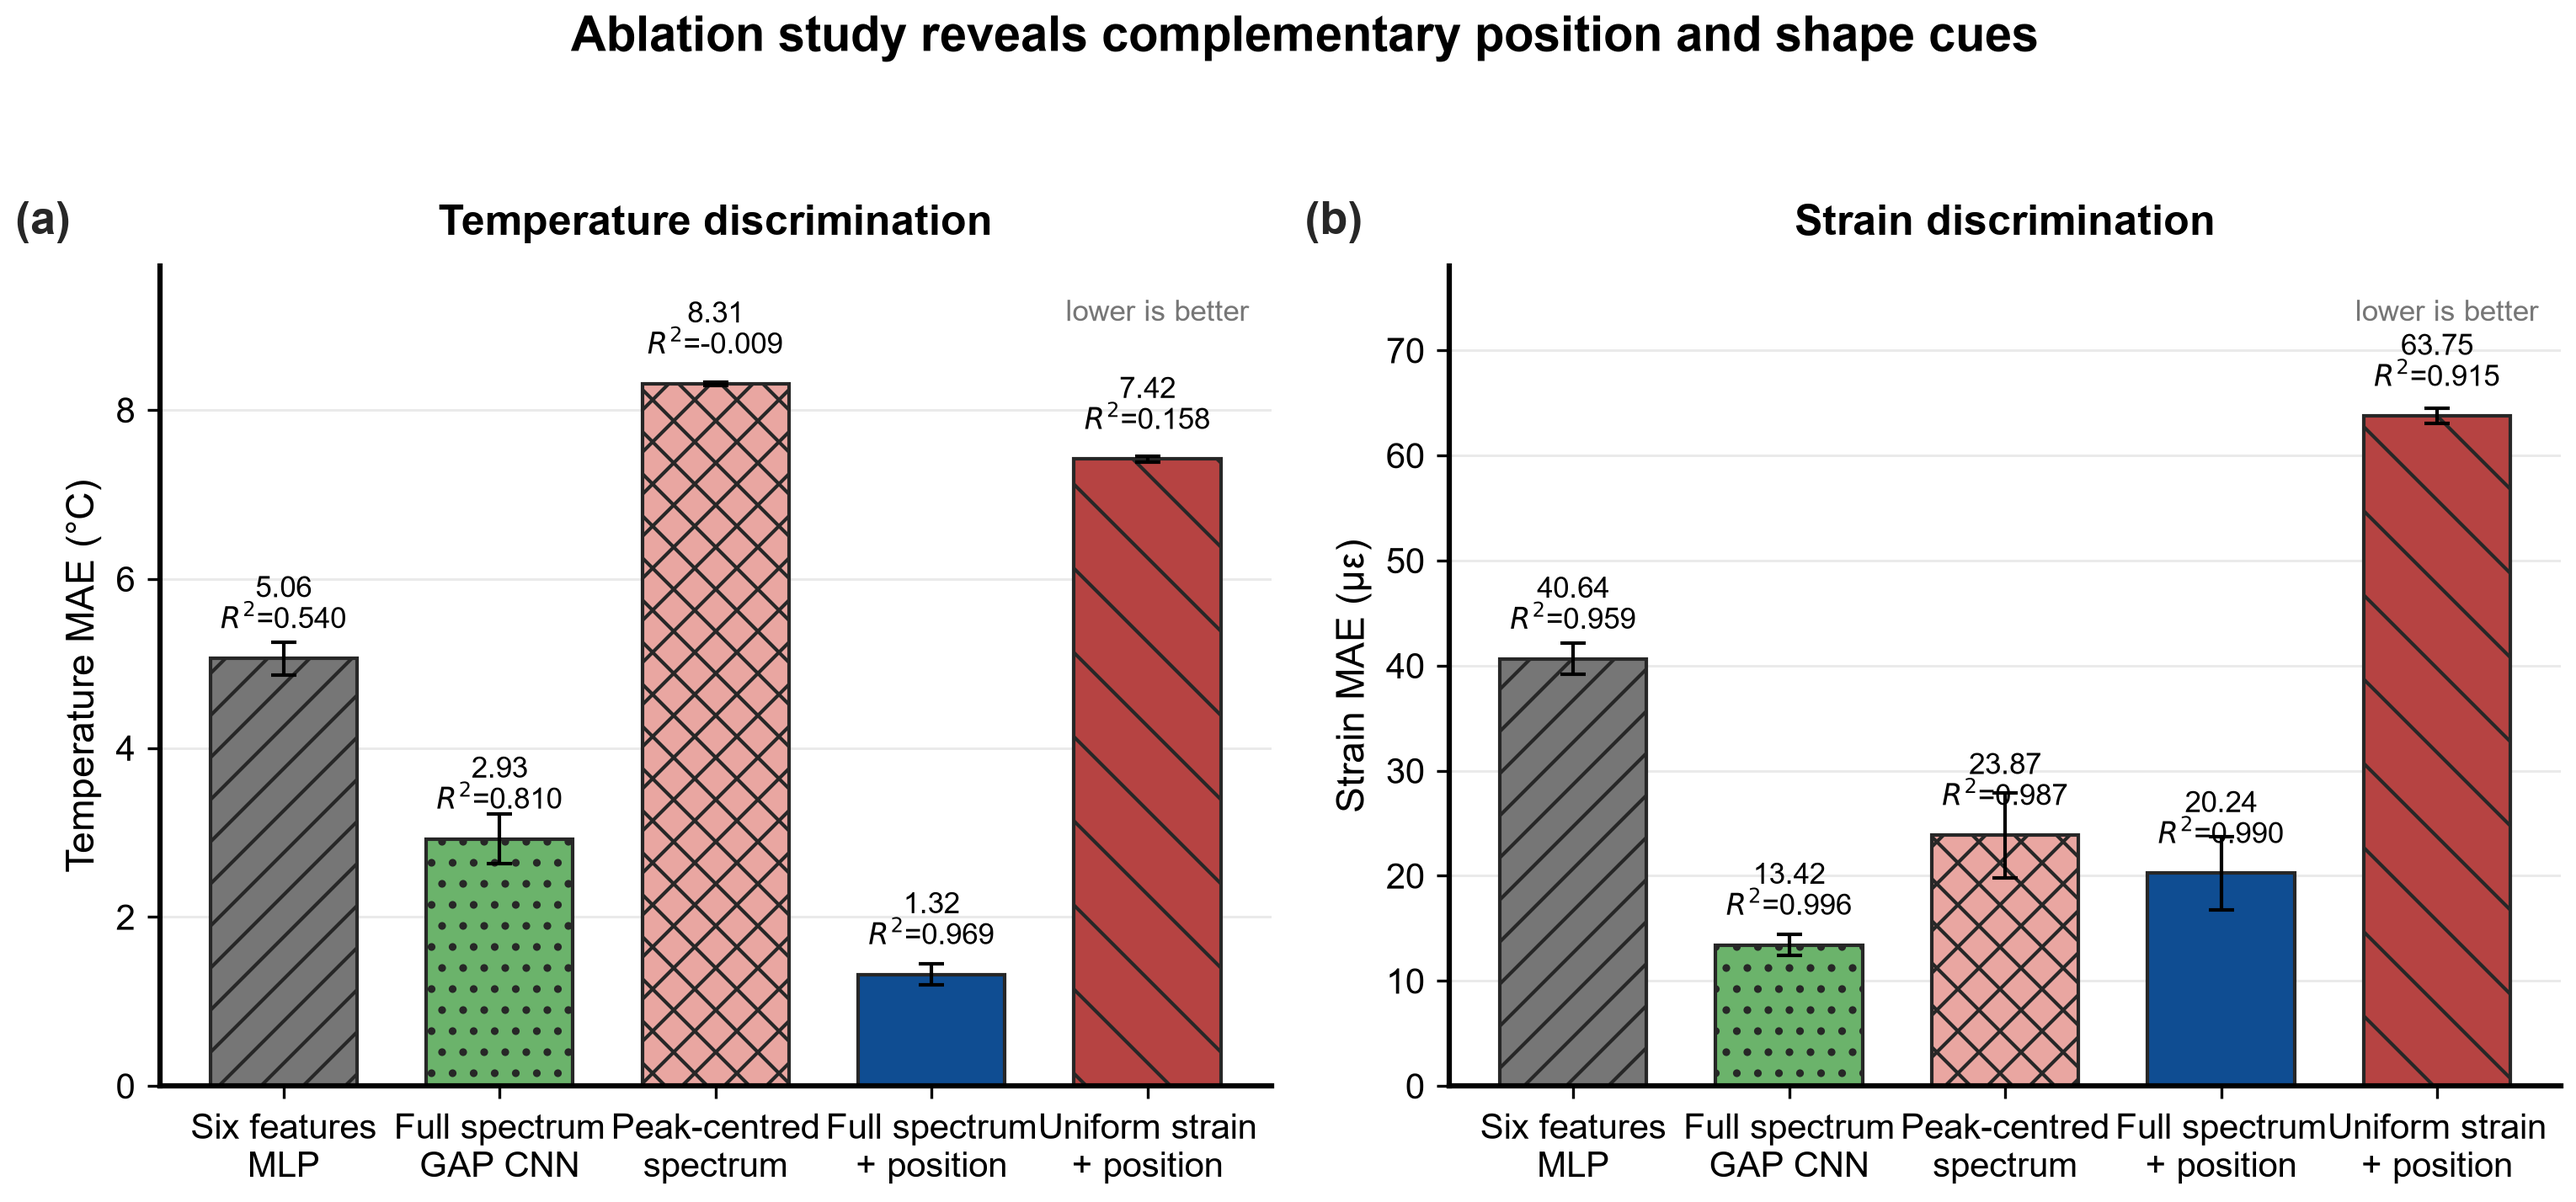
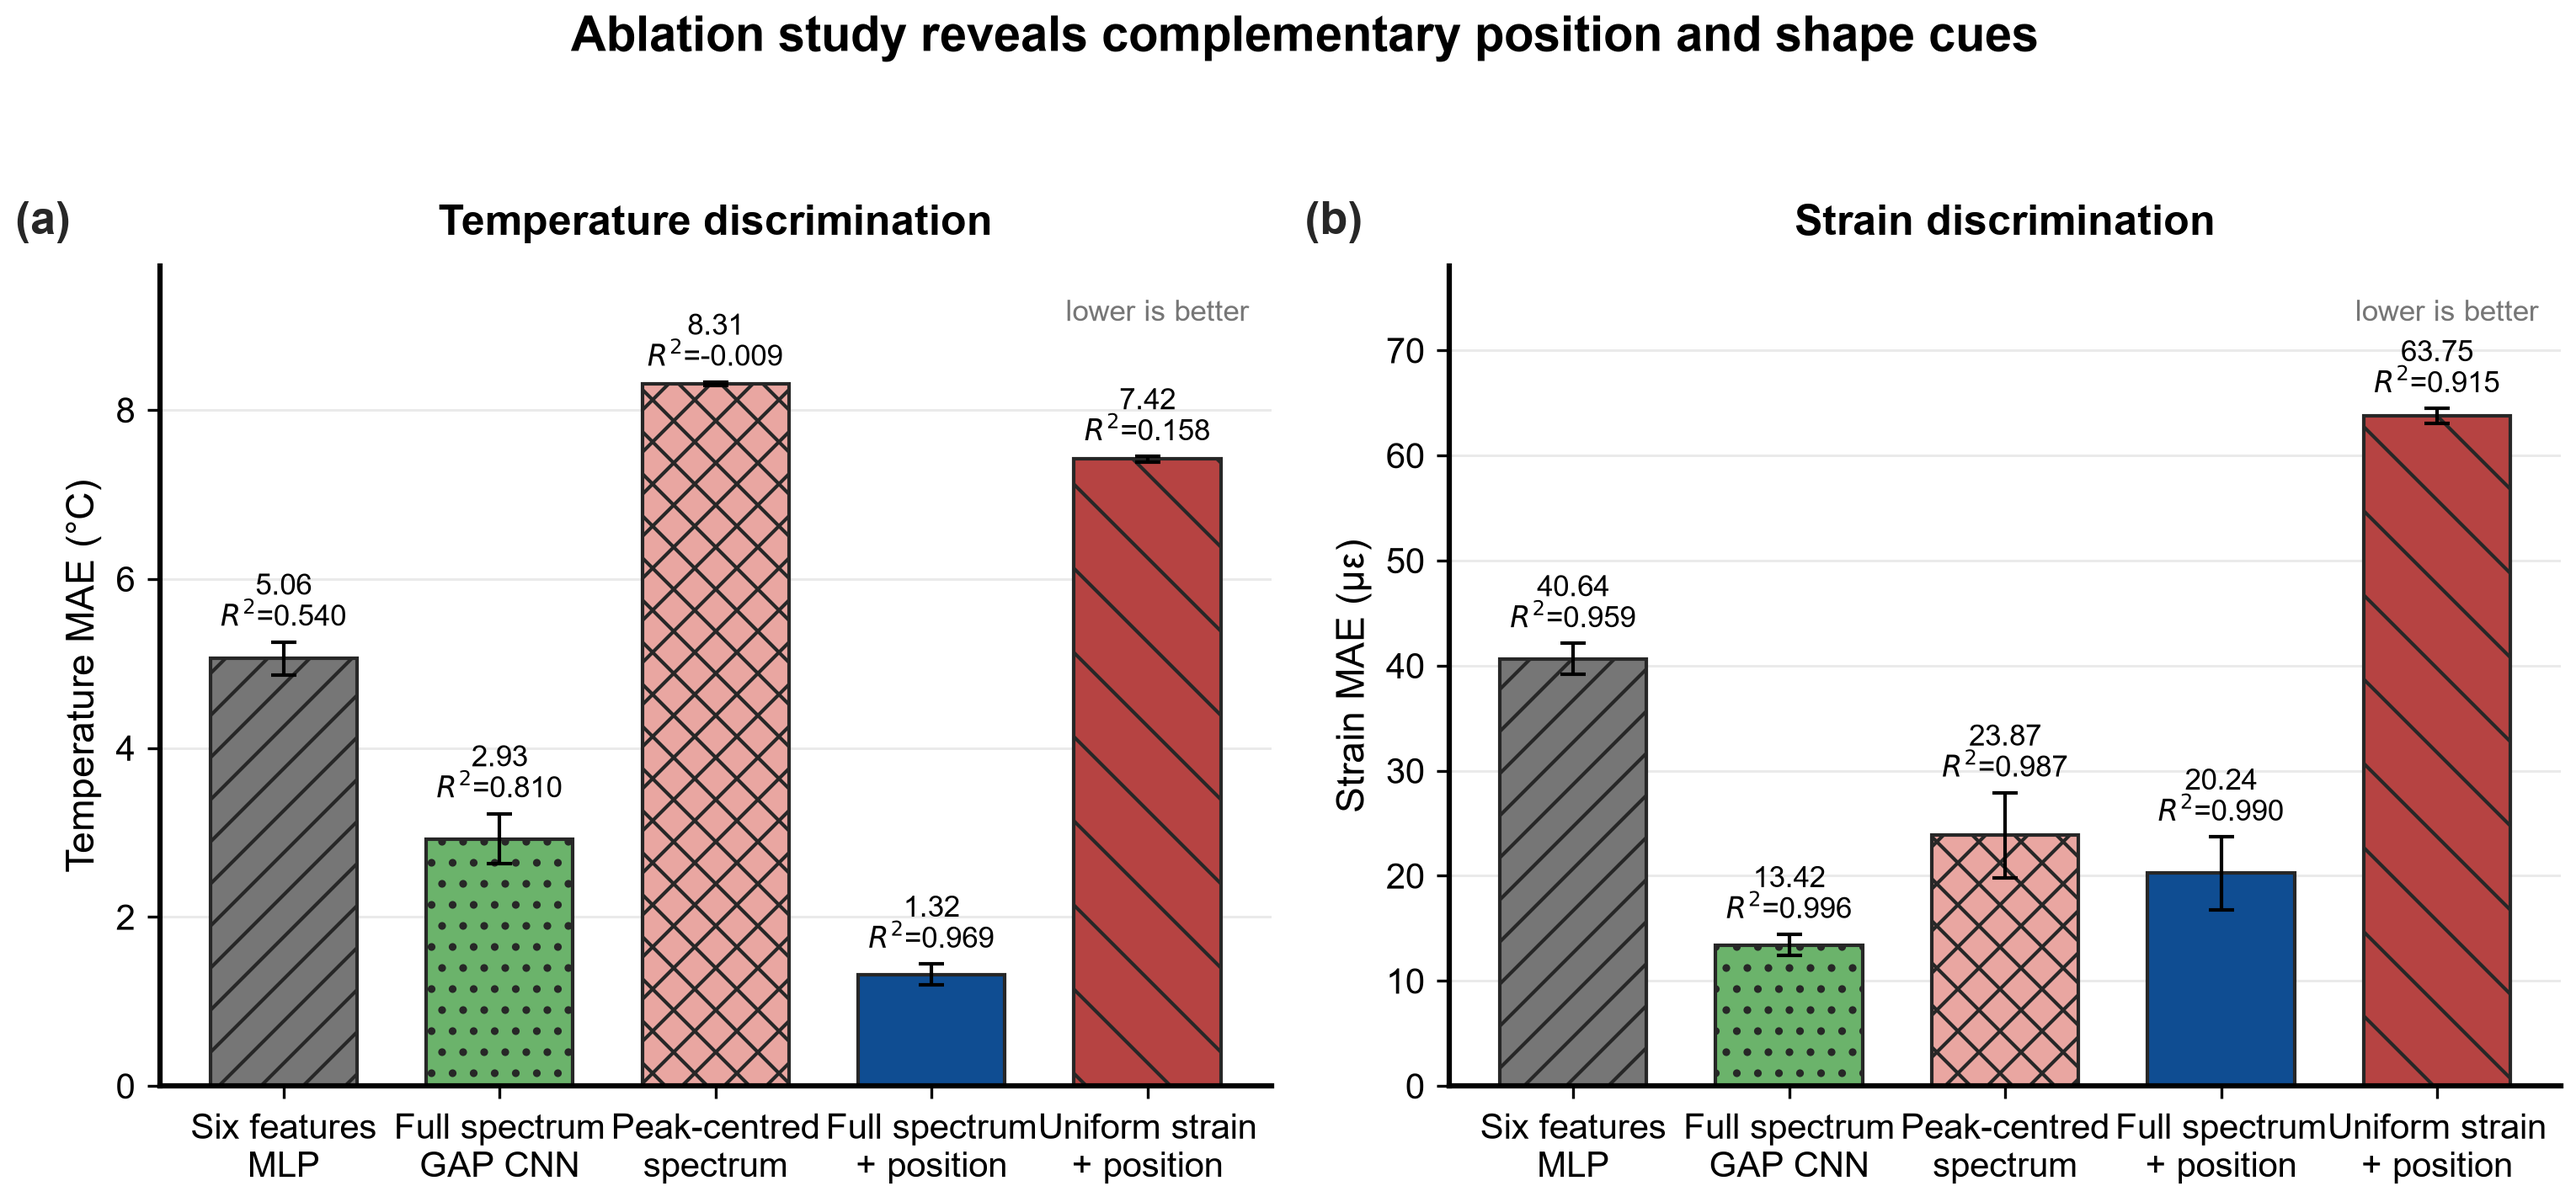
Fix ablation figure annotation overlap

diff --git a/scripts/make_publication_figures.py b/scripts/make_publication_figures.py
@@ -328,11 +328,15 @@ def figure_ablation() -> list[Path]:
             width=0.68,
             error_kw={"elinewidth": 1.0, "capthick": 1.0},
         )
-        for bar, hatch, mean, r2 in zip(bars, hatches, means, r2s):
+        for bar, hatch, mean, std, r2 in zip(bars, hatches, means, stds, r2s):
             bar.set_hatch(hatch)
+            # Place the two-line value label above the error-bar cap.  Using
+            # only the bar height caused the larger strain uncertainties to
+            # cross through the R² line in the right-hand panel.
+            annotation_y = mean + std + ymax * 0.018
             ax.text(
                 bar.get_x() + bar.get_width() / 2,
-                mean + ymax * 0.035,
+                annotation_y,
                 f"{mean:.2f}\n$R^2$={r2:.3f}",
                 ha="center",
                 va="bottom",
@@ -457,3 +461,4 @@ def main() -> None:
 
 if __name__ == "__main__":
     main()
+
